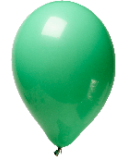
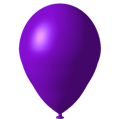
New One

diff --git a/src/game/Game.java b/src/game/Game.java
@@ -75,8 +75,6 @@ public class Game implements MouseListener {
         panel.addMouseListener(d);
 
 
-        int bo1 = 380;
-        int bo2 = 100;
 
         try {
             Thread.sleep(500);
@@ -95,7 +93,7 @@ public class Game implements MouseListener {
         try {
 
             balloonImage[0] = ImageIO.read(Demo.class.getResource("../resources/balloon1.png"));
-            balloonImage[1] = ImageIO.read(Demo.class.getResource("../resources/balloon1.png"));
+            balloonImage[1] = ImageIO.read(Demo.class.getResource("../resources/balloon2.png"));
             balloonImage[2] = ImageIO.read(Demo.class.getResource("../resources/balloon1.png"));
             balloonImage[3] = ImageIO.read(Demo.class.getResource("../resources/balloon1.png"));
             balloonImage[4] = ImageIO.read(Demo.class.getResource("../resources/balloon1.png"));
